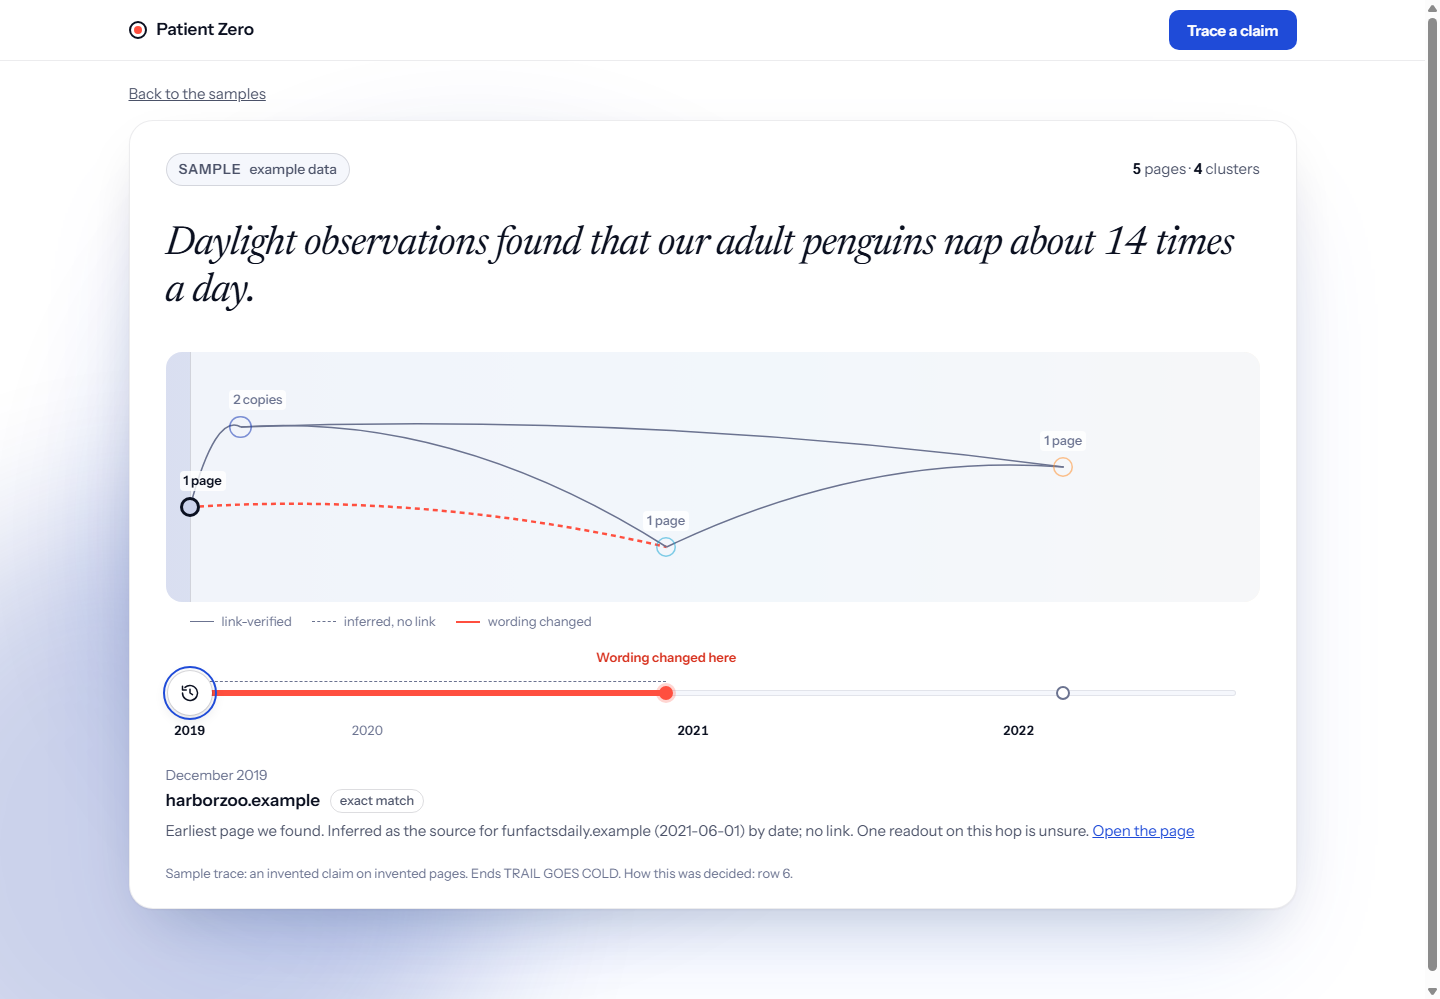
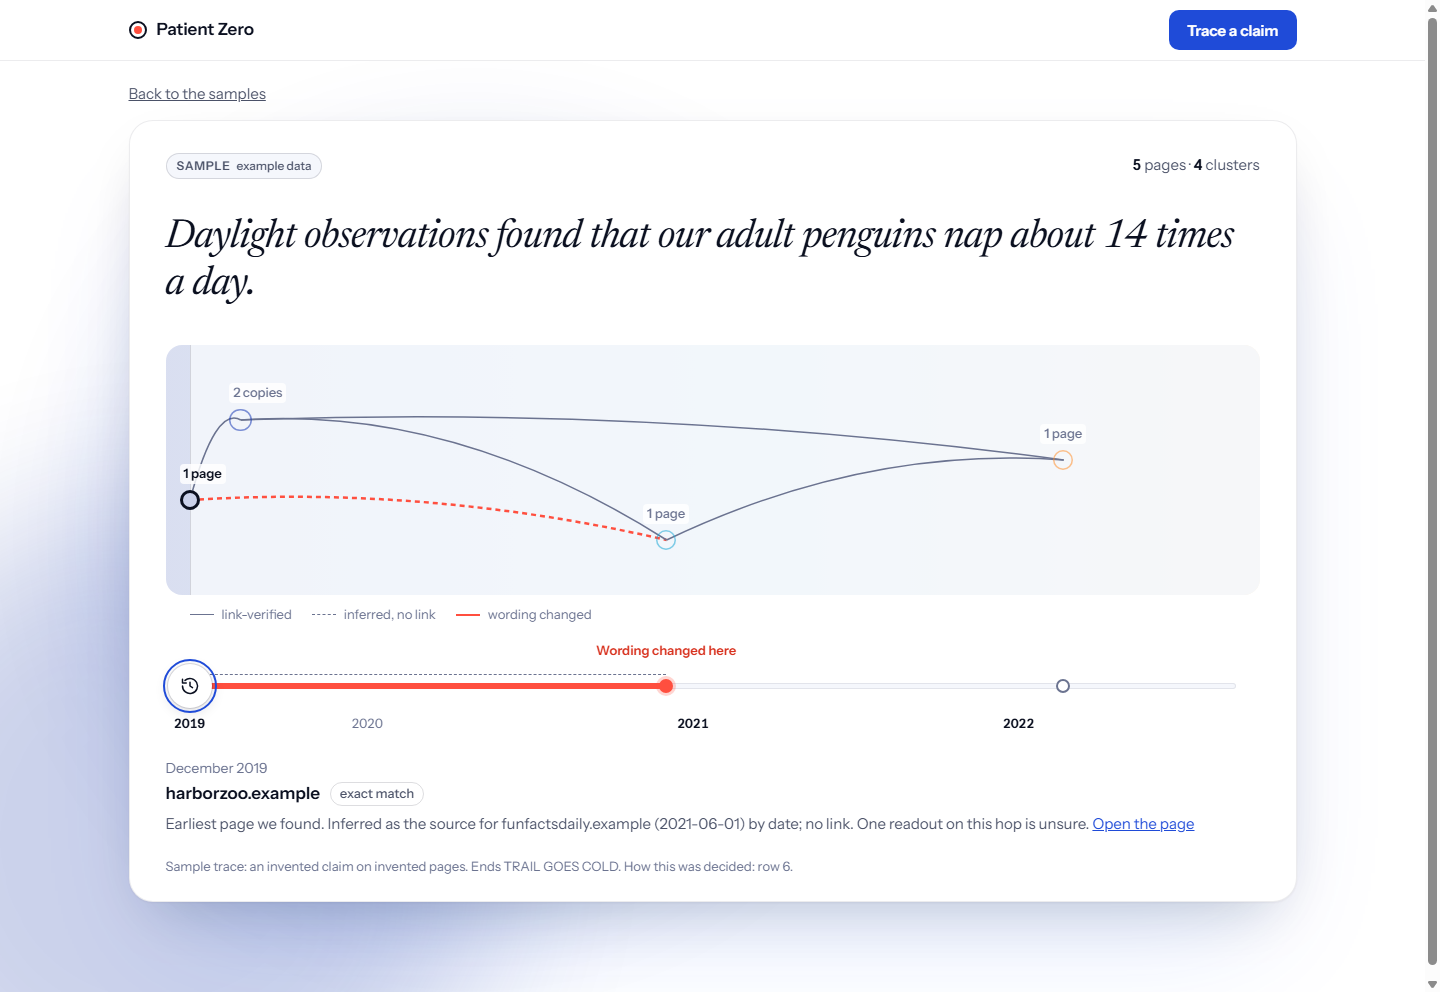
Name readout chips apart from the mode badge's chip class

diff --git a/apps/web/src/styles/trace.css b/apps/web/src/styles/trace.css
@@ -490,7 +490,7 @@
   font-size: 14px;
 }
 
-.chips {
+.readout-list {
   display: flex;
   flex-wrap: wrap;
   gap: 8px;
@@ -499,43 +499,43 @@
   list-style: none;
 }
 
-.chip {
+.readout {
   display: inline-flex;
   align-items: baseline;
   gap: 8px;
   padding: 5px 12px;
   border-radius: 999px;
   font-size: 14px;
-  animation: chip-in 220ms cubic-bezier(0.215, 0.61, 0.355, 1) both;
+  animation: readout-in 220ms cubic-bezier(0.215, 0.61, 0.355, 1) both;
   animation-delay: calc(var(--i) * 60ms);
 }
 
-.chip.changed {
+.readout.changed {
   background: var(--chg-tint);
   box-shadow: inset 0 0 0 1px color-mix(in srgb, var(--hot) 40%, transparent);
 }
 
-.chip.unsure {
+.readout.unsure {
   background: var(--bg-2);
   box-shadow: inset 0 0 0 1px var(--line-2);
 }
 
-.chip.disputed {
+.readout.disputed {
   box-shadow: inset 0 0 0 1px var(--line-2);
   background-image: repeating-linear-gradient(135deg, transparent 0 6px, var(--line) 6px 7px);
 }
 
-.chip-label {
+.readout-label {
   color: var(--ink);
   font-weight: 600;
 }
 
-.chip-tag {
+.readout-tag {
   color: var(--ink-2);
   font-variant-numeric: tabular-nums;
 }
 
-@keyframes chip-in {
+@keyframes readout-in {
   from {
     opacity: 0;
     transform: translateY(4px);
@@ -543,7 +543,7 @@
 }
 
 @media (prefers-reduced-motion: reduce) {
-  .chip {
+  .readout {
     animation: none;
   }
 }

diff --git a/apps/web/src/components/TraceView.tsx b/apps/web/src/components/TraceView.tsx
@@ -86,11 +86,11 @@ export function TraceView({ trace }: { trace: Trace }) {
                   <div className="readouts">
                     <p className="readouts-head">{into.chips.length > 0 ? "What changed from the older page" : "Nothing we check for changed from the older page."}</p>
                     {into.chips.length > 0 && (
-                      <ul className="chips" key={`${trace.id}-${open}`}>
+                      <ul className="readout-list" key={`${trace.id}-${open}`}>
                         {into.chips.map((c, n) => (
-                          <li key={c.id} className={`chip ${c.tone}${c.disputed ? " disputed" : ""}`} style={{ ["--i" as string]: n }}>
-                            <span className="chip-label">{c.label}</span>
-                            <span className="chip-tag">{c.tag}</span>
+                          <li key={c.id} className={`readout ${c.tone}${c.disputed ? " disputed" : ""}`} style={{ ["--i" as string]: n }}>
+                            <span className="readout-label">{c.label}</span>
+                            <span className="readout-tag">{c.tag}</span>
                           </li>
                         ))}
                       </ul>

diff --git a/apps/web/src/components/TraceView.test.tsx b/apps/web/src/components/TraceView.test.tsx
@@ -41,7 +41,7 @@ describe("TraceView", () => {
     expect(html).toContain('class="track-red"');
     expect(html).toMatch(/class="stop red"/);
     expect(html).toContain("band-link inferred red");
-    expect(html).toContain('<span class="chip-label">Attribution shifted</span><span class="chip-tag">inferred, 74%</span>');
+    expect(html).toContain('<span class="readout-label">Attribution shifted</span><span class="readout-tag">inferred, 74%</span>');
     const plain = traces.find((t) => t.id === "sample-origin")!;
     expect(renderToStaticMarkup(<TraceView trace={plain} />)).not.toContain("Wording changed here");
   });
